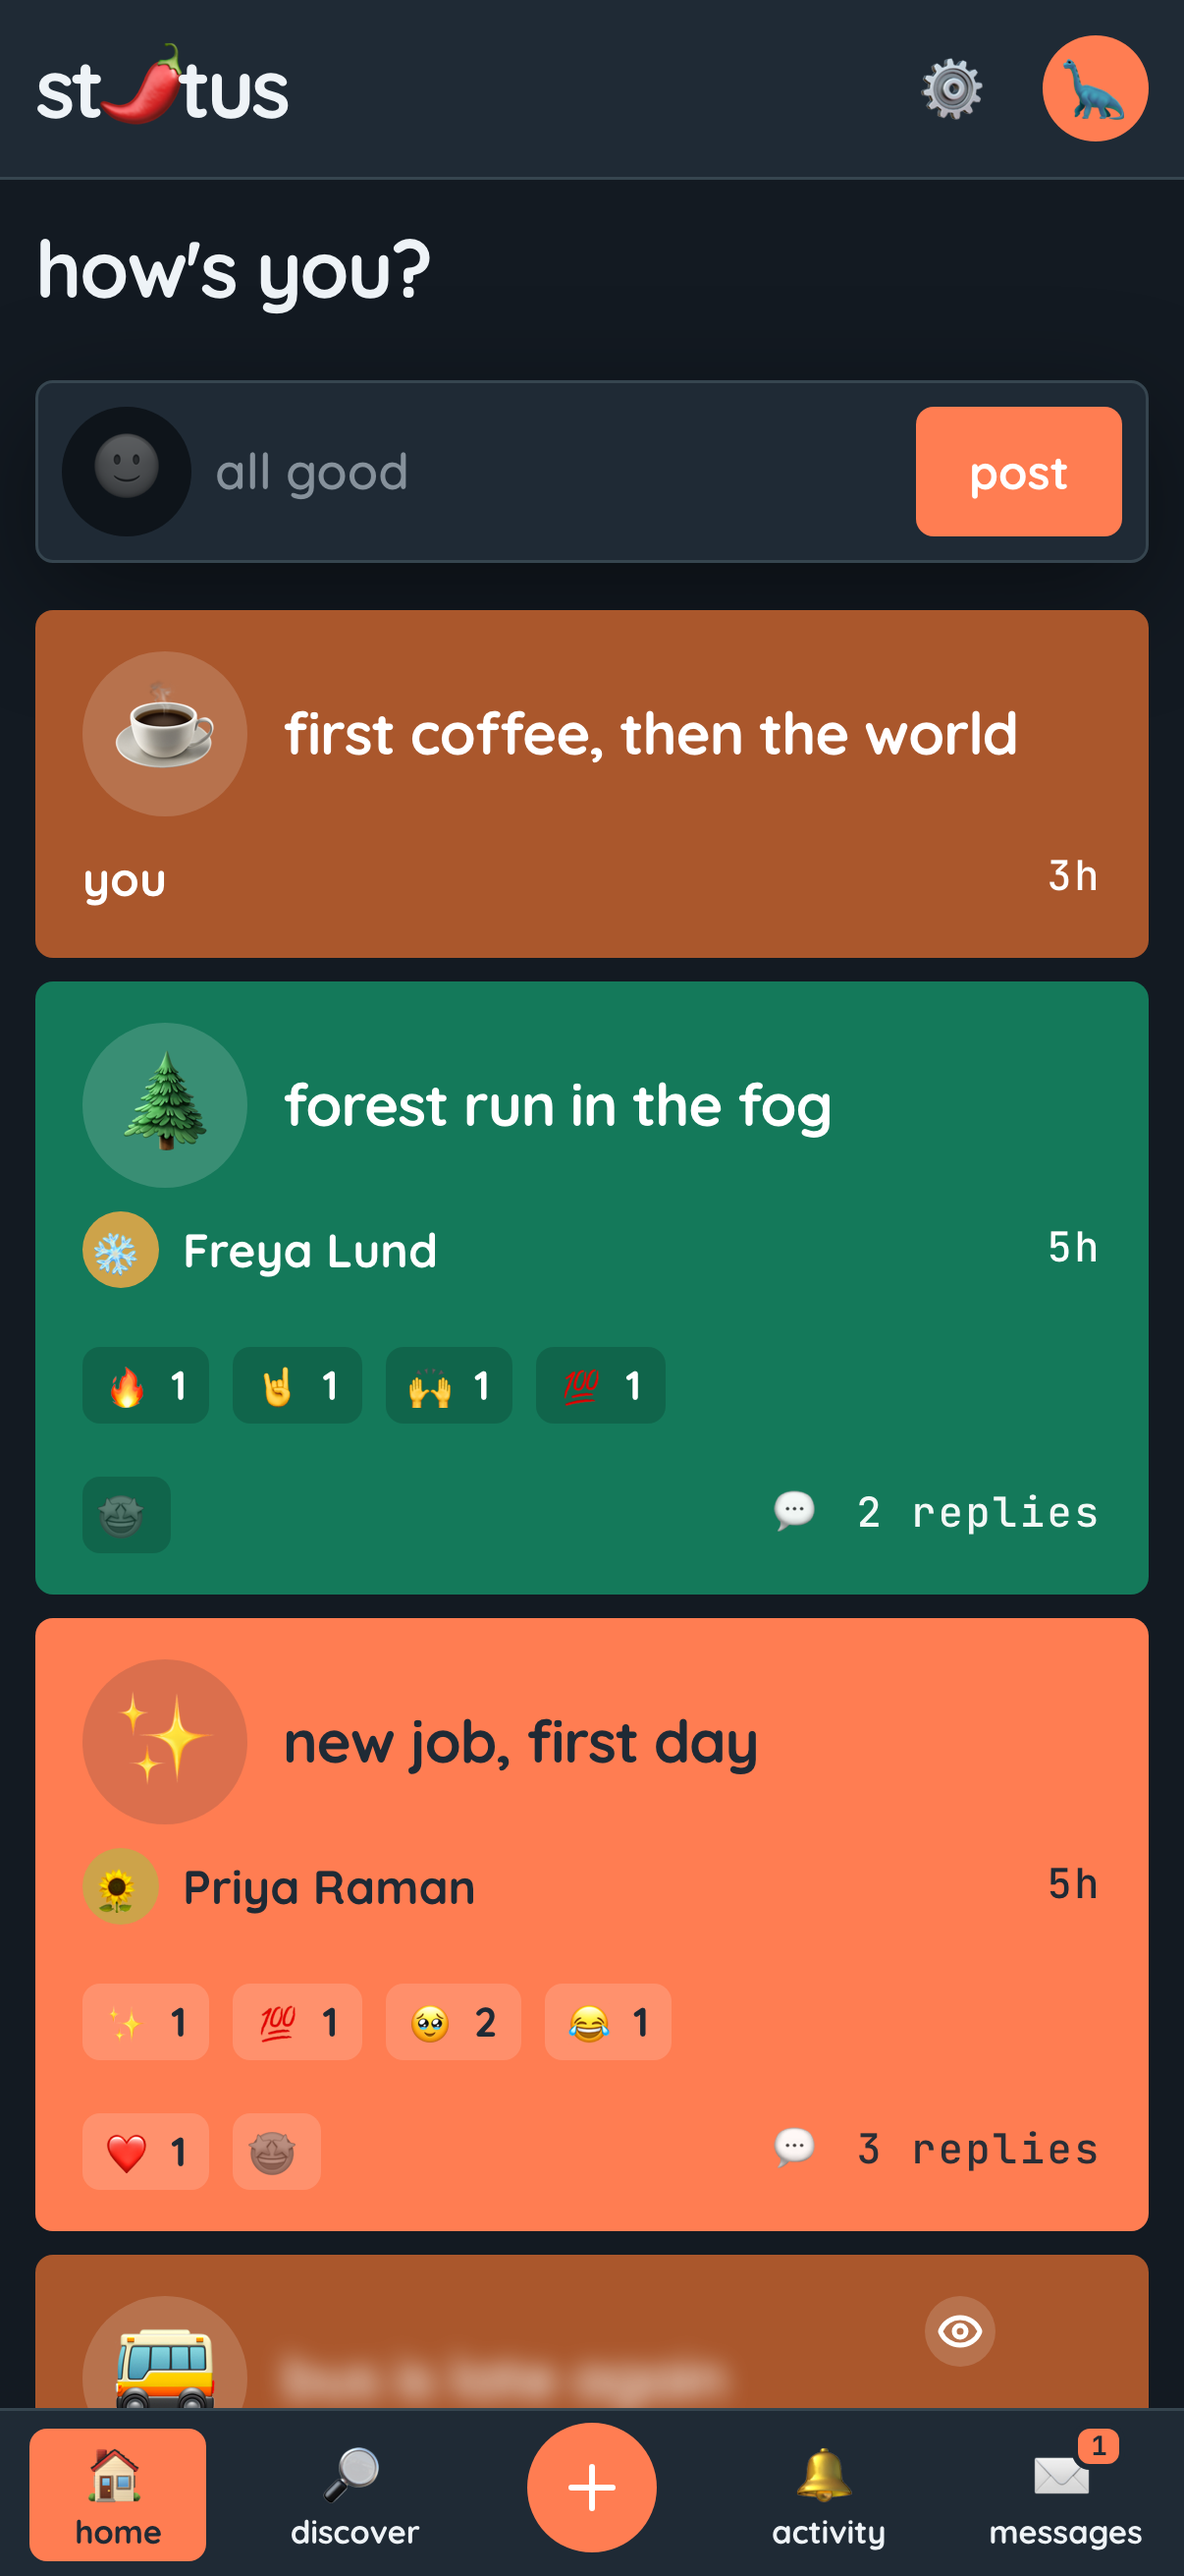
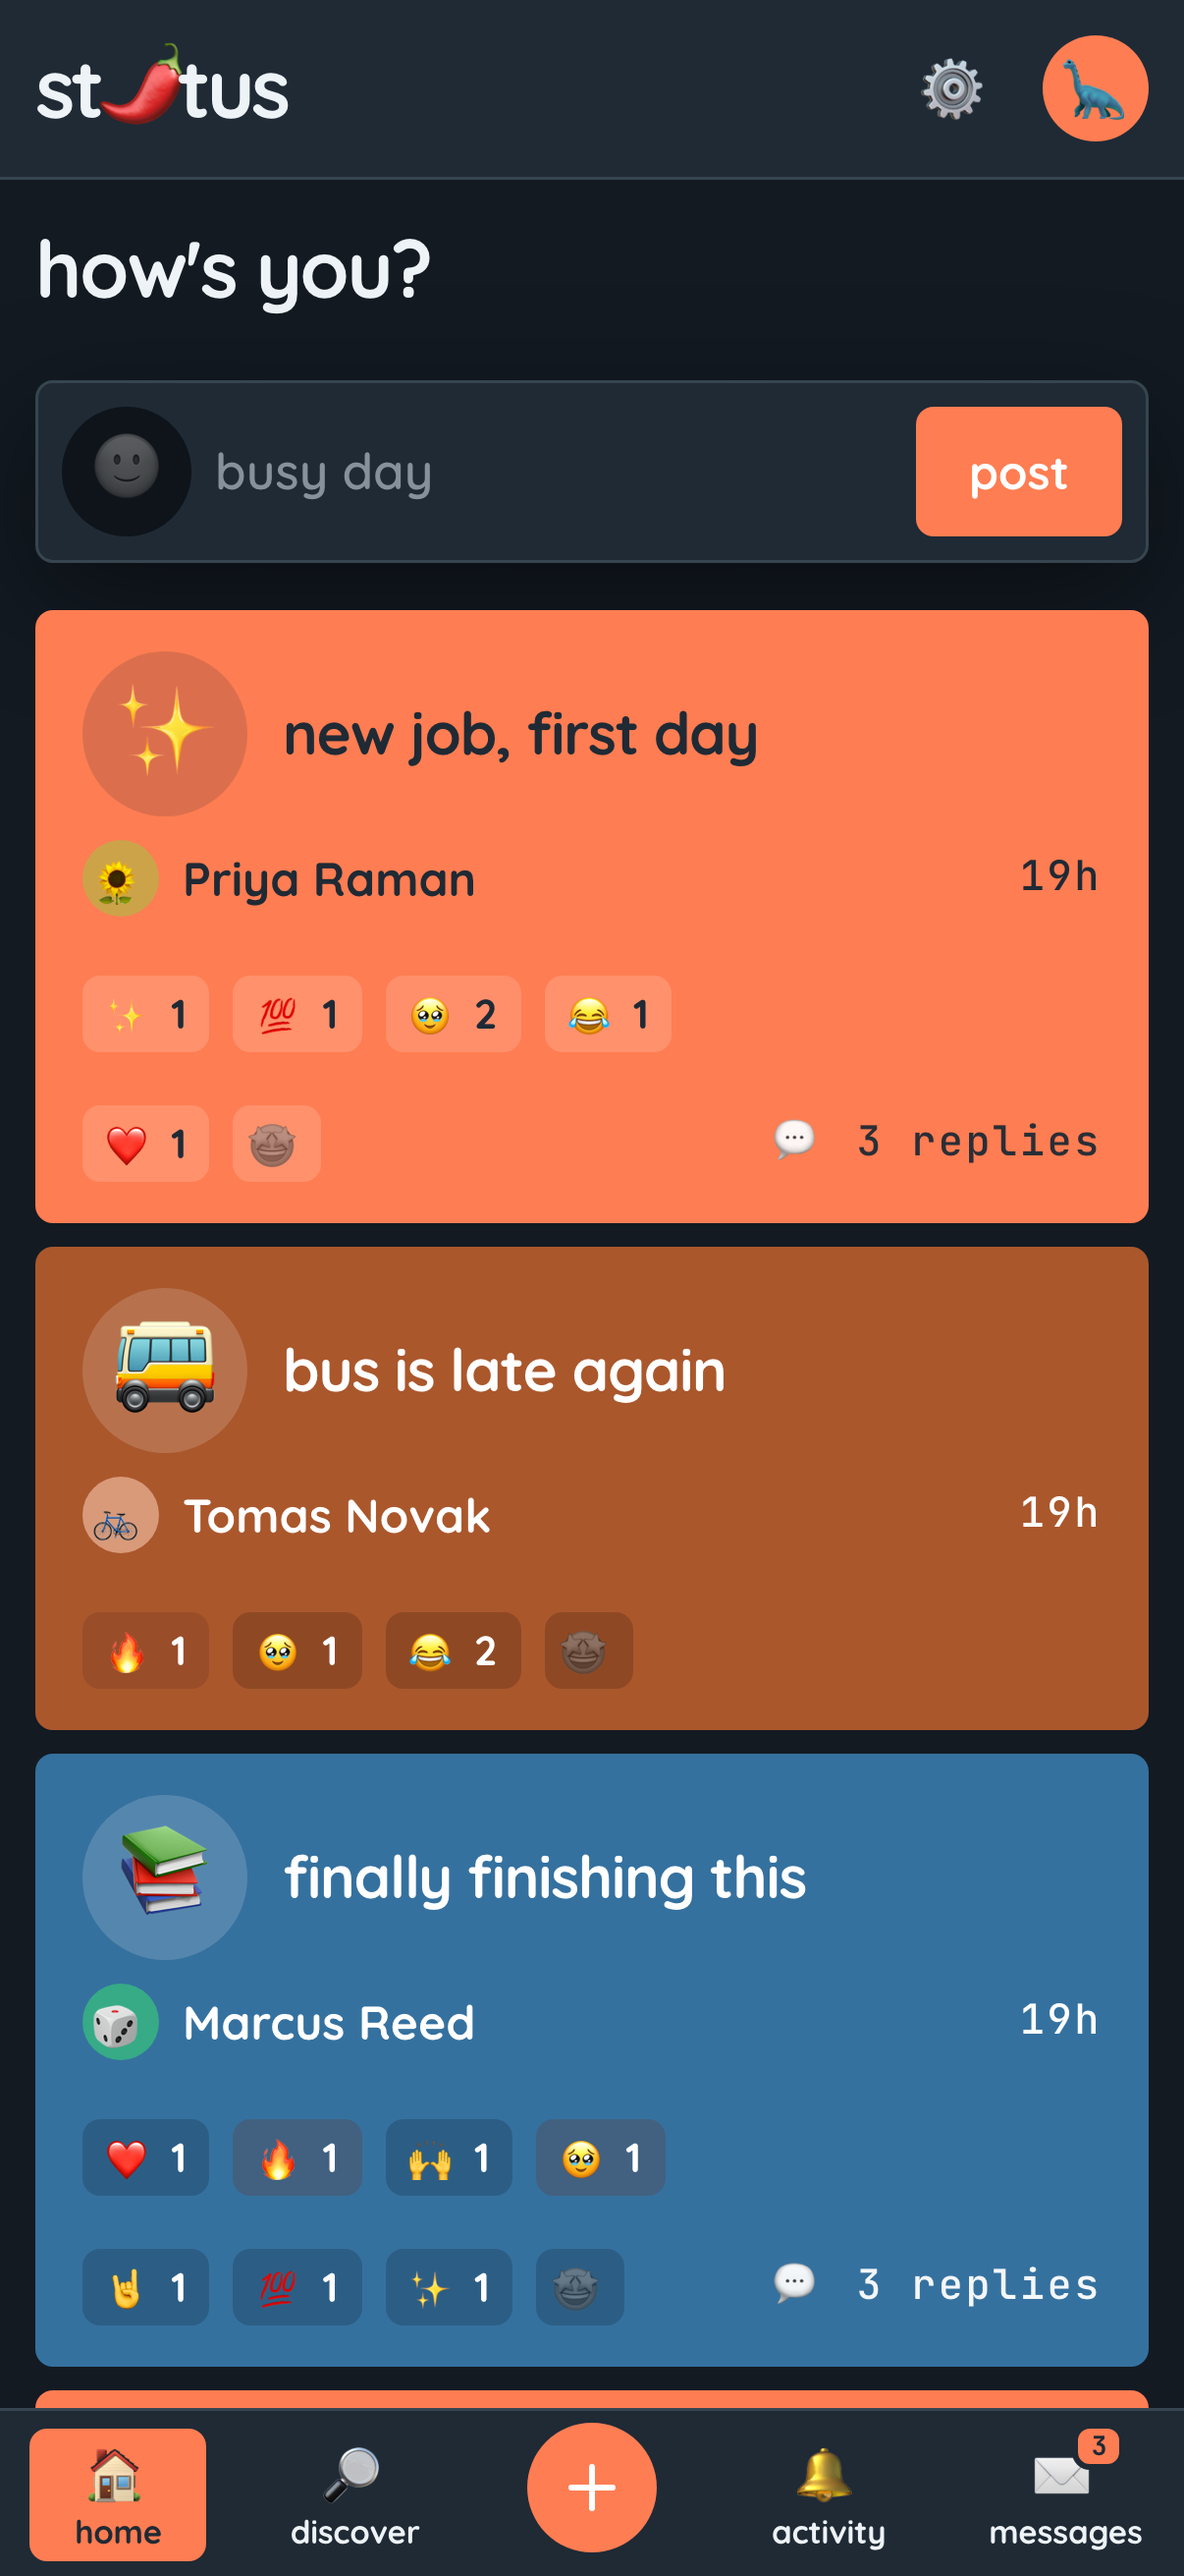
Recapture the status home feed without the blurred card
Claude-Session: https://claude.ai/code/session_01FSYyyQJwXdNeXTCTAAtt8m

diff --git a/design/status-captures/README.md b/design/status-captures/README.md
@@ -2,7 +2,8 @@
 
 The status app screens in both themes, 1206x2622, from the stat session's sweep of the live app on
 14 Nov 2026 (`~/Documents/Stat/store-shots/2026-11-14/`, which has the full set of 17 and a README).
-Only the screens the site uses are kept here: 01 to 09.
+Only the screens the site uses are kept here: 01 to 09. 01-home was recaptured on 22 Nov 2026
+(`~/Documents/Stat/store-shots/2026-11-22/`) after status dropped the mature content blur.
 
 `control/iphone/` holds the privacy-in-action moments behind the home control slides, from the same
 sweep (`~/Documents/Stat/store-shots/2026-11-14/control/`, which has all ten moments on six devices
